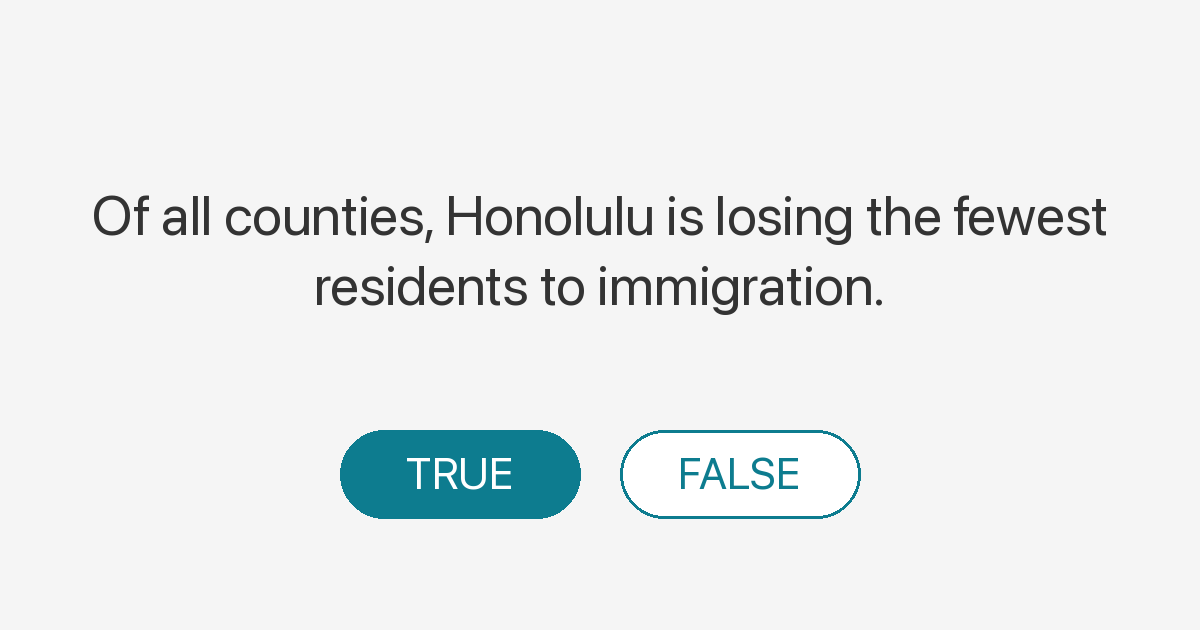
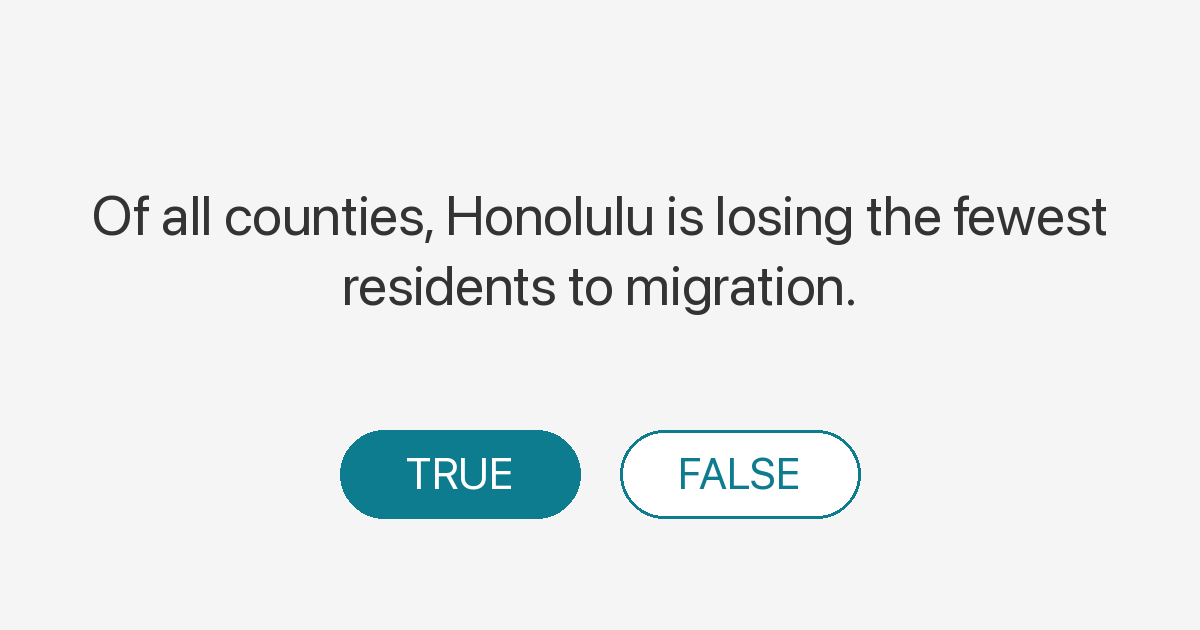
qotd q065: "to immigration" -> "to migration"
The metric is net domestic migration; "immigration" was the wrong
word for moves OUT of a county. "Migration" is the neutral term that
matches the metric.

Changed region(s): [[0.2467, 0.4222, 0.74, 0.5127]]

diff --git a/q/q065/index.html b/q/q065/index.html
@@ -13,7 +13,7 @@
   <meta name="twitter:card" content="summary_large_image">
   <meta name="twitter:title" content="You know Hawaiʻi?">
   <meta name="twitter:image" content="https://hawaiidashboard.org/assets/og/q/of-all-counties-honolulu-is-losing-the-fewest-residents.png">
-  <meta name="description" content="Of all counties, Honolulu is losing the fewest residents to immigration.">
+  <meta name="description" content="Of all counties, Honolulu is losing the fewest residents to migration.">
   <link rel="canonical" href="https://hawaiidashboard.org/q/q065/">
   <script>window.location.replace("/?from_q=q065");</script>
   <meta http-equiv="refresh" content="0;url=https://hawaiidashboard.org/?from_q=q065">
@@ -22,7 +22,7 @@
   <p>Redirecting to <a href="https://hawaiidashboard.org/?from_q=q065">You know Hawaiʻi?</a>&hellip;</p>
   <article style="max-width:640px;margin:2rem auto;padding:0 1rem;font-family:-apple-system,BlinkMacSystemFont,'Segoe UI',sans-serif;color:#333;line-height:1.55;">
     <p style="color:#888;font-size:0.875rem;text-transform:uppercase;letter-spacing:0.05em;margin:0;">You know Hawaiʻi?</p>
-    <p style="margin:0.25rem 0 1rem;font-size:1.25rem;font-weight:600;">Of all counties, Honolulu is losing the fewest residents to immigration.</p>
+    <p style="margin:0.25rem 0 1rem;font-size:1.25rem;font-weight:600;">Of all counties, Honolulu is losing the fewest residents to migration.</p>
     <p><strong>False.</strong> In 2024, Hawaiʻi County was the only county gaining residents at +29.9 per 10K; Honolulu lost 69.1 per 10K.</p>
     <p style="margin-top:1.5rem;"><a href="/c/net_domestic_migration_rate/">See the data &rarr;</a></p>
   </article>

diff --git a/js/questions.js b/js/questions.js
@@ -527,7 +527,7 @@ const QOTD_QUESTIONS = [
   {
       "id": "q065",
       "slug": "of-all-counties-honolulu-is-losing-the-fewest-residents",
-      "claim": "Of all counties, Honolulu is losing the fewest residents to immigration.",
+      "claim": "Of all counties, Honolulu is losing the fewest residents to migration.",
       "correct": false,
       "answer": "In 2024, Hawaiʻi County was the only county gaining residents at +29.9 per 10K; Honolulu lost 69.1 per 10K.",
       "chartUrl": "/c/net_domestic_migration_rate/",

diff --git a/index.html b/index.html
@@ -369,7 +369,7 @@
     <script src="js/export.js?v=20260515a"></script>
     <script src="js/share-menu.js?v=20260527a"></script>
     <script src="js/modal.js?v=20260518a"></script>
-    <script src="js/questions.js?v=20260530a"></script>
+    <script src="js/questions.js?v=20260530b"></script>
     <script src="js/qotd.js?v=20260518a"></script>
     <script src="js/app.js?v=20260515a"></script>
 </body>
